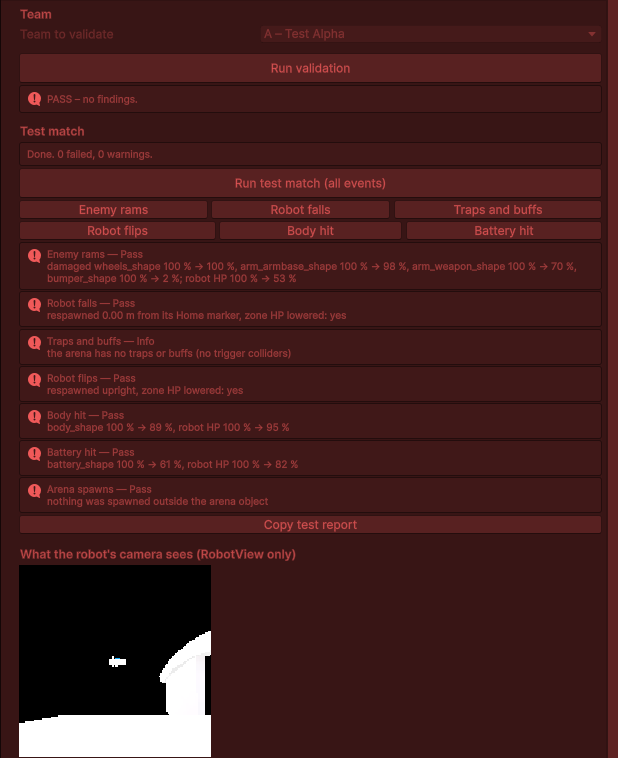
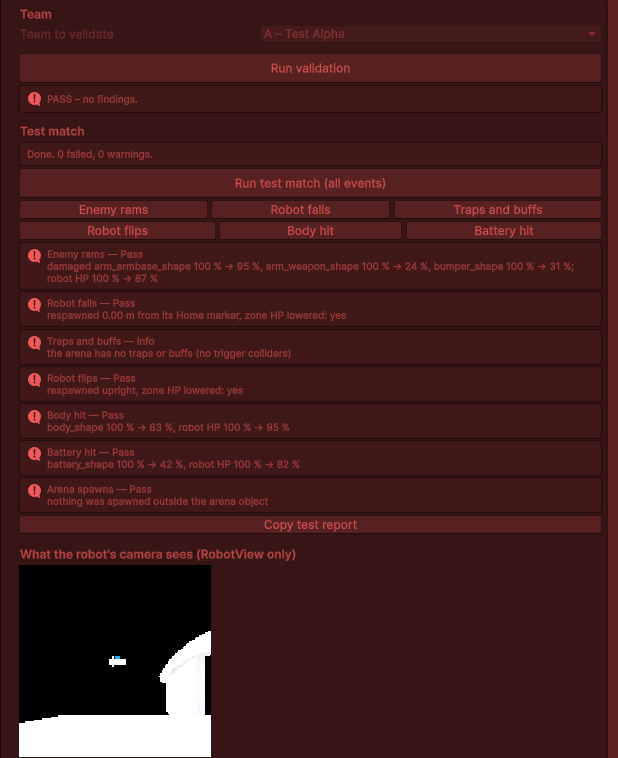
README: training results with the new damage values
Update training speed and the expected course of the Fight graphs after a
1.5M-step run, the damage shares in the rules chapter, and the validation
screenshot (it showed values from before the damage change).

Changed region(s): [[0.0922, 0.3338, 0.7379, 0.3945], [0.2767, 0.6069, 0.4919, 0.6372], [0.7686, 0.3338, 0.9223, 0.3641]]

diff --git a/README.md b/README.md
@@ -278,10 +278,12 @@ Keď vypíše **„Listening on port 5004"**, stlačte v Unity **Play**. Roboty 
 | `Fight/Damage Dealt` | poškodenie spôsobené súperovi | rastie |
 | `Fight/Damage Taken` | poškodenie od súpera | proti slabšiemu súperovi klesá |
 | `Fight/Falls and Flips` | pády z arény a prevrátenia | klesá |
-| `Fight/Ended By Knockout` | podiel epizód ukončených vyradením | rastie (spočiatku je 0) |
+| `Fight/Ended By Knockout` | podiel epizód ukončených vyradením | najprv rastie; neskôr môže klesnúť, keď sa roboty naučia aj brániť |
 | `Fight/End HP` | HP robota na konci epizódy | podľa stratégie |
 
-**Koľko to trvá.** Na bežnom počítači s 5 arénami robí tréning v editore asi 5 000 krokov za minútu. Prvé zlepšenie (viac zásahov, menej pádov) vidno po 200 000 až 500 000 krokoch, teda po 1 až 2 hodinách. Na dobrého bojovníka počítajte s niekoľkými hodinami.
+**Koľko to trvá.** Na bežnom počítači s 5 arénami robí tréning v editore 5 000 až 8 000 krokov za minútu. Prvé zlepšenie (viac zásahov, viac vyradení) vidno po 100 000 až 300 000 krokoch, teda asi po hodine. Na dobrého bojovníka počítajte s niekoľkými hodinami.
+
+Príklad zo skúšobného tréningu referenčného robota (1 500 000 krokov, 3 hodiny 20 minút): taranovať sa roboty naučili počas prvých 300 000 krokov, keď sa vyradením končili asi tri štvrtiny epizód. Potom sa naučili aj uhýbať a podiel vyradení klesol asi na 15 %. Robot sa pritom ďalej zlepšoval: model z konca tréningu vyhral nad modelom z 500 000 krokov 48 zo 67 súbojov. Pokles vyradení teda sám osebe neznamená, že sa tréning pokazil.
 
 > Editor sa veľmi spomalí, keď nie je aktívnym oknom. Počas tréningu ho majte vpredu.
 
@@ -513,8 +515,8 @@ Vlastné skripty na robote sú povolené, ale validácia ich vypíše ako varova
    | `bumper` (nárazník) | 1500 | 10 |
 
 2. **Zásah:** keď sa zóny dvoch robotov zrazia, zasiahnutá zóna stráca HP úmerne *sile nárazu* a pomeru *poškodenie súperovej zóny / vlastná odolnosť*. Čím rýchlejší náraz, tým väčšie poškodenie.
-   - **Hlavným zdrojom poškodenia je náraz nárazníkom (taranovanie).** Nárazník ubližuje päťkrát viac než úder zbraňou. V skúšobných súbojoch spôsobil asi 84 % celého poškodenia, zbraň asi 16 %.
-   - Jeden čelný náraz v plnej rýchlosti uberie robotovi asi 14 % HP. Dobre mierené nárazy vyradia súpera do 90 s; v skúšobných súbojoch čiastočne natrénovaných robotov sa vyradením skončila asi polovica kôl.
+   - **Hlavným zdrojom poškodenia je náraz nárazníkom (taranovanie).** Nárazník ubližuje päťkrát viac než úder zbraňou. V skúšobných súbojoch natrénovaných robotov spôsobil asi tri štvrtiny celého poškodenia, zbraň zvyšok.
+   - Jeden čelný náraz v plnej rýchlosti uberie robotovi asi 14 % HP. Dobre mierené nárazy vyradia súpera do 90 s; krátko trénované roboty tak končia väčšinu kôl. Dlhšie trénované roboty sa vedia aj brániť a medzi dvoma rovnako dobrými sa väčšina kôl skončí uplynutím času.
    - Batéria je najzraniteľnejšia zóna (odolnosť 1), telo a kolesá sú stredne odolné.
    - Dotyk s arénou bez sily (státie, jazda po podlahe) HP neuberá. Tvrdý náraz do steny áno.
 3. **HP robota** je vážený priemer HP jeho zón. Robot je **vyradený**, keď tento priemer klesne na **0,2** alebo nižšie. Ukazovateľ HP v turnaji vtedy ukazuje 0 %.
